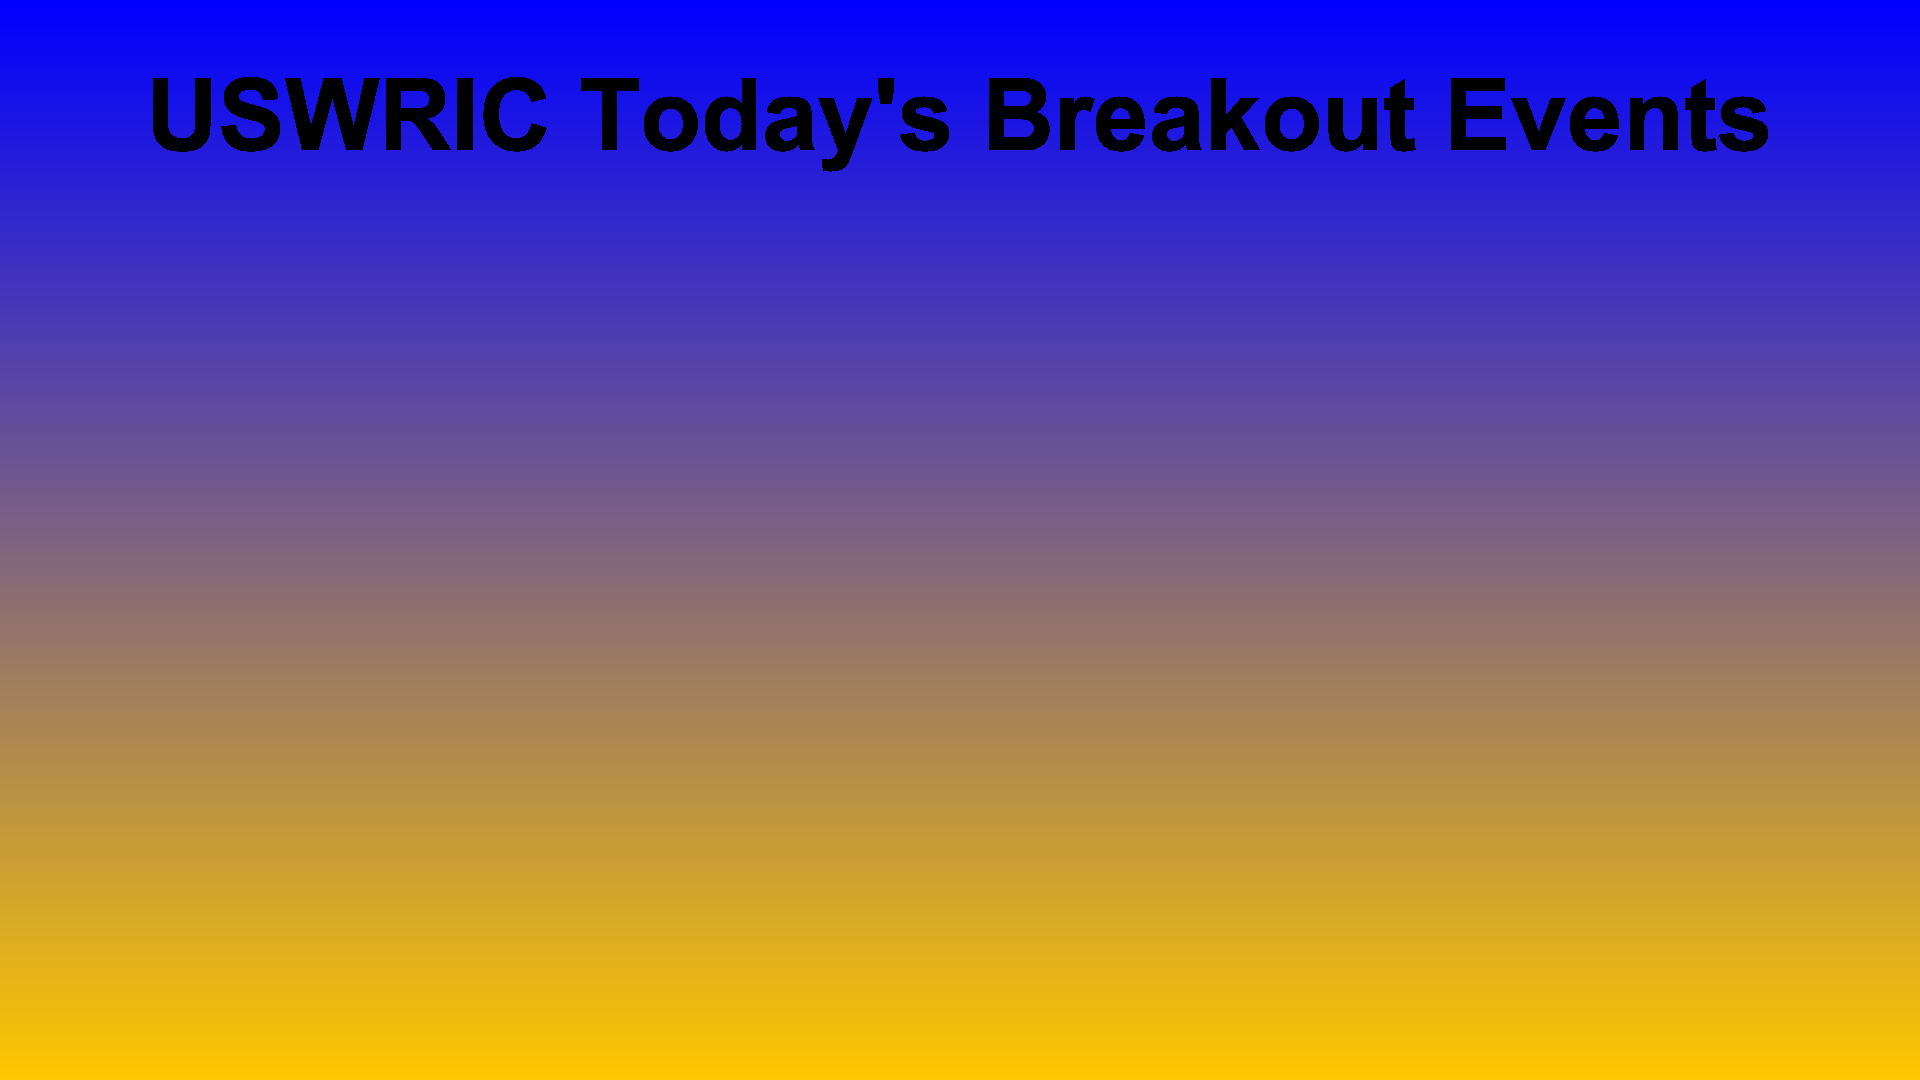
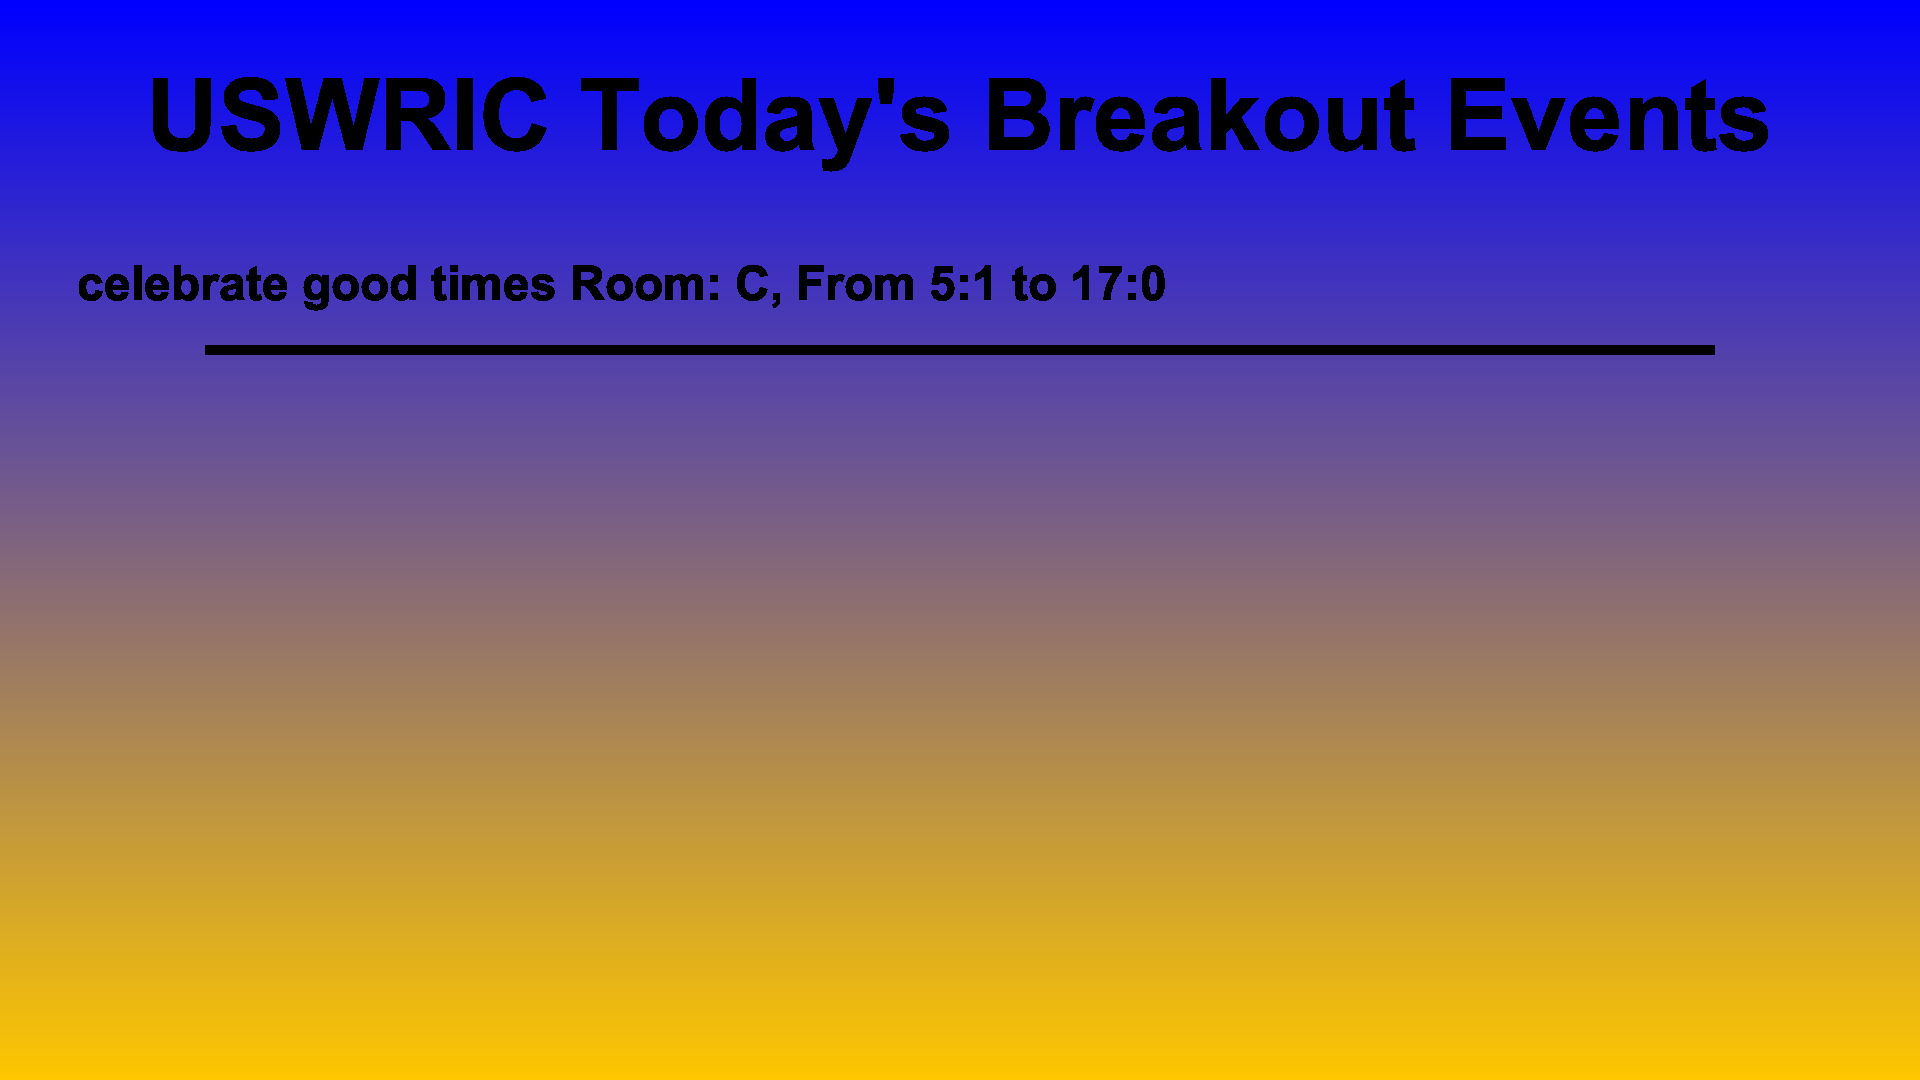
pull request cleanup

Changed region(s): [[0.0312, 0.2444, 0.9062, 0.3361]]

diff --git a/src/main/java/senior/design/group10/controller/WindowsController.java b/src/main/java/senior/design/group10/controller/WindowsController.java
@@ -73,9 +73,6 @@ public class WindowsController {
 		return adminService.editAdmin(editAdmin);
 	}
 
-
-
-
 	@GetMapping("/equipmentUsage")
 	@ResponseBody
 	public List<EquipmentUsageResponse> getEquipmentStatistics(){
@@ -136,17 +133,6 @@ public class WindowsController {
 	public ResponseObject removeAdmin(@RequestBody StringWrapper stringWrapper){
 		return adminService.removeAdmin(stringWrapper.getString());
 	}
-	///////////////////////////////////////////////
-	//Photo commands
-	//
-	////////////////////////////////////////////////
-
-
-	//@GetMapping("/renderImage")
-	//@ResponseBody
-	//public boolean renderImage() {
-	//	return messageService.renderImage();
-	//}
 
 	////////////////////////////////////////////////
 	//Pi commands
@@ -209,11 +195,11 @@ public class WindowsController {
      * -a timestamp of creation (automatically generated by the backend)
      * -an associated administrator account
      */
-    //@PostMapping("/newMessage")
-    @GetMapping("newMessage")
+    @PostMapping("/newMessage")
+    //@GetMapping("newMessage") for testing
     @ResponseBody
-    //public ResponseObject newMessage(@RequestBody SentMessage sentMessage) 
-    public ResponseObject newMessage(SentMessage sentMessage) 
+    public ResponseObject newMessage(@RequestBody SentMessage sentMessage) 
+    //public ResponseObject newMessage(SentMessage sentMessage) This is for testing
     {
     		//Sending a message
     		//Used for making new messages
@@ -232,15 +218,30 @@ public class WindowsController {
     @ResponseBody
     public ResponseObject updatePiImages()
     {
+    		System.out.println("Getting Current Messages");
     		piService.renderMessagesImage(messageService.getCurrentMessages());
+    		System.out.println("Getting Current Breakout Reservation");
+    		//Todo
+    		//Add future events function
+
     		piService.renderBreakoutImage(breakoutService.todaysReservations());
     		//Send the folder to the pi
     		piService.piListFill();
 
+    		System.out.println("Sending the Images");
+
     		
-    		piService.copyFolderToPi("PiImages", "Desktop/New");
+    		piService.copyFolderToPi("PiImages", "Pictures/Slides");
 
         return  new ResponseObject(true,null);
+    }
+    
+    @GetMapping("/runSlideShow")
+    @ResponseBody
+    public ResponseObject startSlideshow()
+    {
+    		piService.startSlideShow();
+    		return new ResponseObject(true,null);
     }
 
 }

diff --git a/src/main/java/senior/design/group10/controller/AndroidController.java b/src/main/java/senior/design/group10/controller/AndroidController.java
@@ -134,17 +134,17 @@ public class AndroidController {
 	 * String for the number of people
 	 * String for the additional comments
 	 */
-	@PostMapping("/newBreakoutReservation")
-	//@GetMapping("/newBreakoutReservation")
+	//@PostMapping("/newBreakoutReservation")
+	@GetMapping("/newBreakoutReservation")
 	@ResponseBody
-    public ResponseObject newBreakoutReservation(@RequestBody SentBreakoutReservation breakoutReservation) //Add @RequestBody
+    public ResponseObject newBreakoutReservation(SentBreakoutReservation breakoutReservation) //Add @RequestBody
 	{
 		//List for passing in in sent breakout reservation
-		//List<String> reservableIdList = new ArrayList<String>();
-		//reservableIdList.add("C");
+		List<String> reservableIdList = new ArrayList<String>();
+		reservableIdList.add("C");
 		
 		//Manual breakout reservation entry for testing image rendering
-		//breakoutReservation = new SentBreakoutReservation("11111","Breakout",reservableIdList,"celebrate good times", "2019-03-18 05:01:01", "2019-03-18 17:00:00", "2","none");
+		breakoutReservation = new SentBreakoutReservation("11111","Breakout",reservableIdList,"celebrate good times", "2019-03-20 05:01:01", "2019-03-20 17:00:00", "2","none");
         return breakoutService.addBreakRes(breakoutReservation);
     }
 

diff --git a/src/main/java/senior/design/group10/service/PiService.java b/src/main/java/senior/design/group10/service/PiService.java
@@ -240,8 +240,6 @@ public class PiService
 		//For every pi in Pi iterable add to list
 		for (Pi pi : piIt)
 			piList.add(pi);
-
-		System.out.print(piList.get(0).getIP());
 	}
 
 	//Adds pi to db by checking if ip sent matches any existing
@@ -258,6 +256,12 @@ public class PiService
 		Pi piToAdd = new Pi(sentPi.getIp(),sentPi.getUser(),sentPi.getPassword());
 		piDAO.save(piToAdd);
 		return new ResponseObject(true, "Pi added");
+	}
+	
+	public ResponseObject startSlideShow()
+	{
+		execComToPi("./runslideshow.sh");
+		return new ResponseObject(true,null);
 	}
 
 
@@ -367,8 +371,6 @@ public class PiService
 			FileInputStream fis=null;
 			try
 			{
-				System.out.println("got to the exec1");
-
 				JSch jsch=new JSch();
 				Session session=jsch.getSession(user, host, 22);
 

diff --git a/src/main/java/senior/design/group10/application/HibernateConfig.java b/src/main/java/senior/design/group10/application/HibernateConfig.java
@@ -45,7 +45,7 @@ public class HibernateConfig {
         //database root setting
         dataSource.setUsername("root");
         //database password setting
-        dataSource.setPassword("neverforgetme");
+        dataSource.setPassword("root");
         return dataSource;
     }
 
